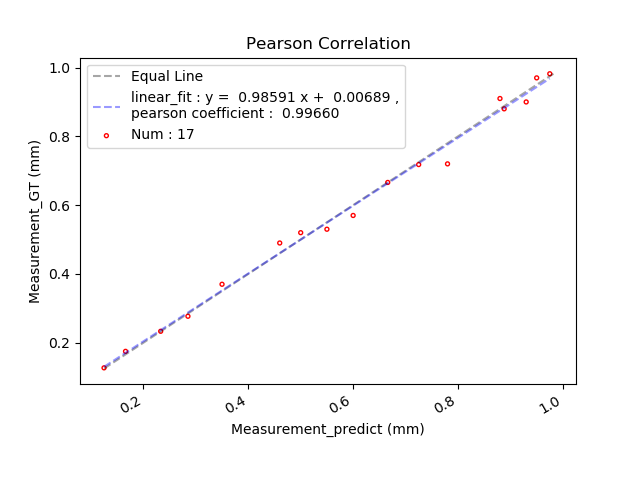
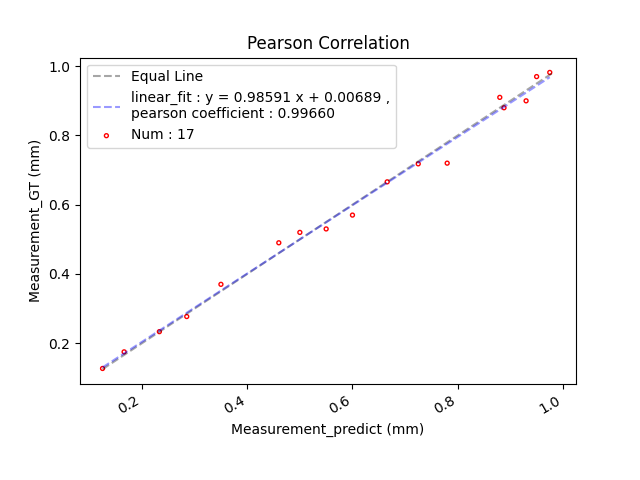
Update for digits.

diff --git a/Python/Correlation_Agreement.py b/Python/Correlation_Agreement.py
@@ -6,7 +6,7 @@ Email: yulvchi@qq.com
 Date: 2022-02-11 14:55:18
 Motto: Entities should not be multiplied unnecessarily.
 LastEditors: Shuangchi He
-LastEditTime: 2022-02-15 12:28:37
+LastEditTime: 2022-02-19 11:24:40
 FilePath: /Correlation_and_Agreement_Analysis/Python/Correlation_Agreement.py
 Description: Statistical Analysis for Pearson Correlation and Bland-Altman Agreement
 '''
@@ -50,7 +50,7 @@ def plot_Pearson_Correlation(X, Y, linefit_TF=False, hist_TF=False,
 
     if linefit_TF:
         a, b, r = linear_fit(X, Y)  # Linear fit.
-        ax1.plot(sort(X), sort(a * X + b), 'b--', label="linear_fit : y = %8.5f x + %8.5f ,\npearson coefficient : %8.5f" %
+        ax1.plot(sort(X), sort(a * X + b), 'b--', label="linear_fit : y = %.5f x + %.5f ,\npearson coefficient : %.5f" %
                  (a, b, r), alpha=0.4)
         print('linear_fit: y = {} x + {}\npearson coefficient: {}\n'.format(a, b, r))
 
@@ -85,16 +85,16 @@ def plot_Bland_Altman_Agreement(X, Y, linefit_TF=False,
                 label='Diff  num : %d' % len(X), linewidth=1)
 
     plt.plot(sort(data_mean), sort(mean_diff * np.ones((len(data_mean), 1), dtype=np.uint8)), 'k--',
-             label='Mean_Diff : %5.3f' % mean_diff, alpha=0.5)  # Mean difference line.
+             label='Mean_Diff : %.5f' % mean_diff, alpha=0.5)  # Mean difference line.
     plt.plot(sort(data_mean), sort((mean_diff + 1.96 * std_diff) * np.ones((len(data_mean), 1), dtype=np.uint8)), 'b--',
-             label='Mean_Diff + 1.96 Std_Diff : %5.3f' % (mean_diff + 1.96 * std_diff), alpha=0.5)  # Mean plus 1.96*Std_Diff line.
+             label='Mean_Diff + 1.96 Std_Diff : %.5f' % (mean_diff + 1.96 * std_diff), alpha=0.5)  # Mean plus 1.96*Std_Diff line.
     plt.plot(sort(data_mean), sort((mean_diff - 1.96 * std_diff) * np.ones((len(data_mean), 1), dtype=np.uint8)), 'b-.',
-             label='Mean_Diff - 1.96 Std_Diff : %5.3f' % (mean_diff - 1.96 * std_diff), alpha=0.5)  # Mean minus 1.96*Std_Diff line.
+             label='Mean_Diff - 1.96 Std_Diff : %.5f' % (mean_diff - 1.96 * std_diff), alpha=0.5)  # Mean minus 1.96*Std_Diff line.
 
     if linefit_TF:
         a, b, r = linear_fit(data_mean, data_diff)  # Linear fit.
         plt.plot(sort(data_mean), sort(data_mean * a + b), 'y--',
-                 label="linear_fit : y = %8.5f x + %8.5f" % (a, b), alpha=0.5)
+                 label="linear_fit : y = %.5f x + %.5f" % (a, b), alpha=0.5)
         print('linear_fit: y = {} x + {}'.format(a, b))
 
     plt.legend(loc=0, ncol=1)

diff --git a/Matlab/plot_Pearson_Correlation_Bland_Altman_Agreement.m b/Matlab/plot_Pearson_Correlation_Bland_Altman_Agreement.m
@@ -18,8 +18,8 @@ plot(sort(X), sort(X .* linear_fit(1) + linear_fit(2)), 'b--');
 
 legend(strcat('Num: ', num2str(length(X))),...
     'Equal Line',...
-    ['linear fit:y=', num2str(linear_fit(1), '%8.5f'), 'x+', num2str(linear_fit(2), '%8.5f'),...
-    newline, 'pearson coefficient:', num2str(r, '%8.5f')]);
+    ['linear fit:y=', num2str(linear_fit(1), '%.5f'), 'x+', num2str(linear_fit(2), '%.5f'),...
+    newline, 'pearson coefficient:', num2str(r, '%.5f')]);
 grid off;
 title('Pearson Correlation');
 xlabel('Measurement_predict (mm)','Interpreter','none');
@@ -45,10 +45,10 @@ linear_fit = polyfit(data_mean, data_diff, 1);  % Linear fit.
 plot(data_mean, data_mean .* linear_fit(1) + linear_fit(2), 'y--');
 
 legend(strcat('Diff num: ', num2str(length(X))),...
-    strcat('Mean_Diff: ', num2str(mean_diff, '%5.3f')),...
-    strcat('Mean_Diff + 1.96 Std_Diff: ', num2str(mean_diff + 1.96 * std_diff, '%5.3f')),...
-    strcat('Mean_Diff - 1.96 Std_Diff: ', num2str(mean_diff - 1.96 * std_diff, '%5.3f')),...
-    ['linear_fit:y=', num2str(linear_fit(1), '%8.5f'), 'x+', num2str(linear_fit(2), '%8.5f')],...
+    strcat('Mean_Diff: ', num2str(mean_diff, '%.5f')),...
+    strcat('Mean_Diff + 1.96 Std_Diff: ', num2str(mean_diff + 1.96 * std_diff, '%.5f')),...
+    strcat('Mean_Diff - 1.96 Std_Diff: ', num2str(mean_diff - 1.96 * std_diff, '%.5f')),...
+    ['linear_fit:y=', num2str(linear_fit(1), '%.5f'), 'x+', num2str(linear_fit(2), '%.5f')],...
     'Interpreter', 'none');
 grid off;
 title('Bland-Altman Agreement');

diff --git a/README.md b/README.md
@@ -4,7 +4,7 @@
  * @Date: 2022-02-08 23:33:52
  * @Motto: Entities should not be multiplied unnecessarily.
  * @LastEditors: Shuangchi He
- * @LastEditTime: 2022-02-15 12:30:05
+ * @LastEditTime: 2022-02-19 11:32:04
  * @FilePath: /Correlation_and_Agreement_Analysis/README.md
  * @Description: repo. https://github.com/Yulv-git/Correlation_and_Agreement_Analysis
 -->
@@ -37,7 +37,7 @@ Rscript ./R/Correlation_Agreement.R
 * Julia
 
 ``` bash
-julia Correlation_Agreement.jl
+julia ./Juila/Correlation_Agreement.jl
 ```
 
 ## Correlation
@@ -54,4 +54,10 @@ Agreement (Bland-Altman Agreement) test is a measure of the mean and variance of
 
 ![Measurement_Bland-Altman_Agreement](./Python/Measurement_Bland-Altman_Agreement.png)
 
-Assuming that the difference between Measurement_predict and Measurement_GT conforms to a normal distribution, the difference between the two measurement methods is distributed within a confidence interval of 0.001±0.047 (mm) with 95% confidence. That is, it can be considered that the two measurement methods, Measurement_predict and Measurement_GT, have good Agreement.
+Assuming that the difference between Measurement_predict and Measurement_GT conforms to a normal distribution, the difference between the two measurement methods is distributed within a confidence interval of 0.00145 ± 0.04668 (mm) with 95% confidence. That is, it can be considered that the two measurement methods, Measurement_predict and Measurement_GT, have good Agreement.
+
+---
+
+<font size=4><b><big> Contributing </b></big></font>
+
+If you find any errors, or have any suggestions, please feel free to please feel free to pull requests.
